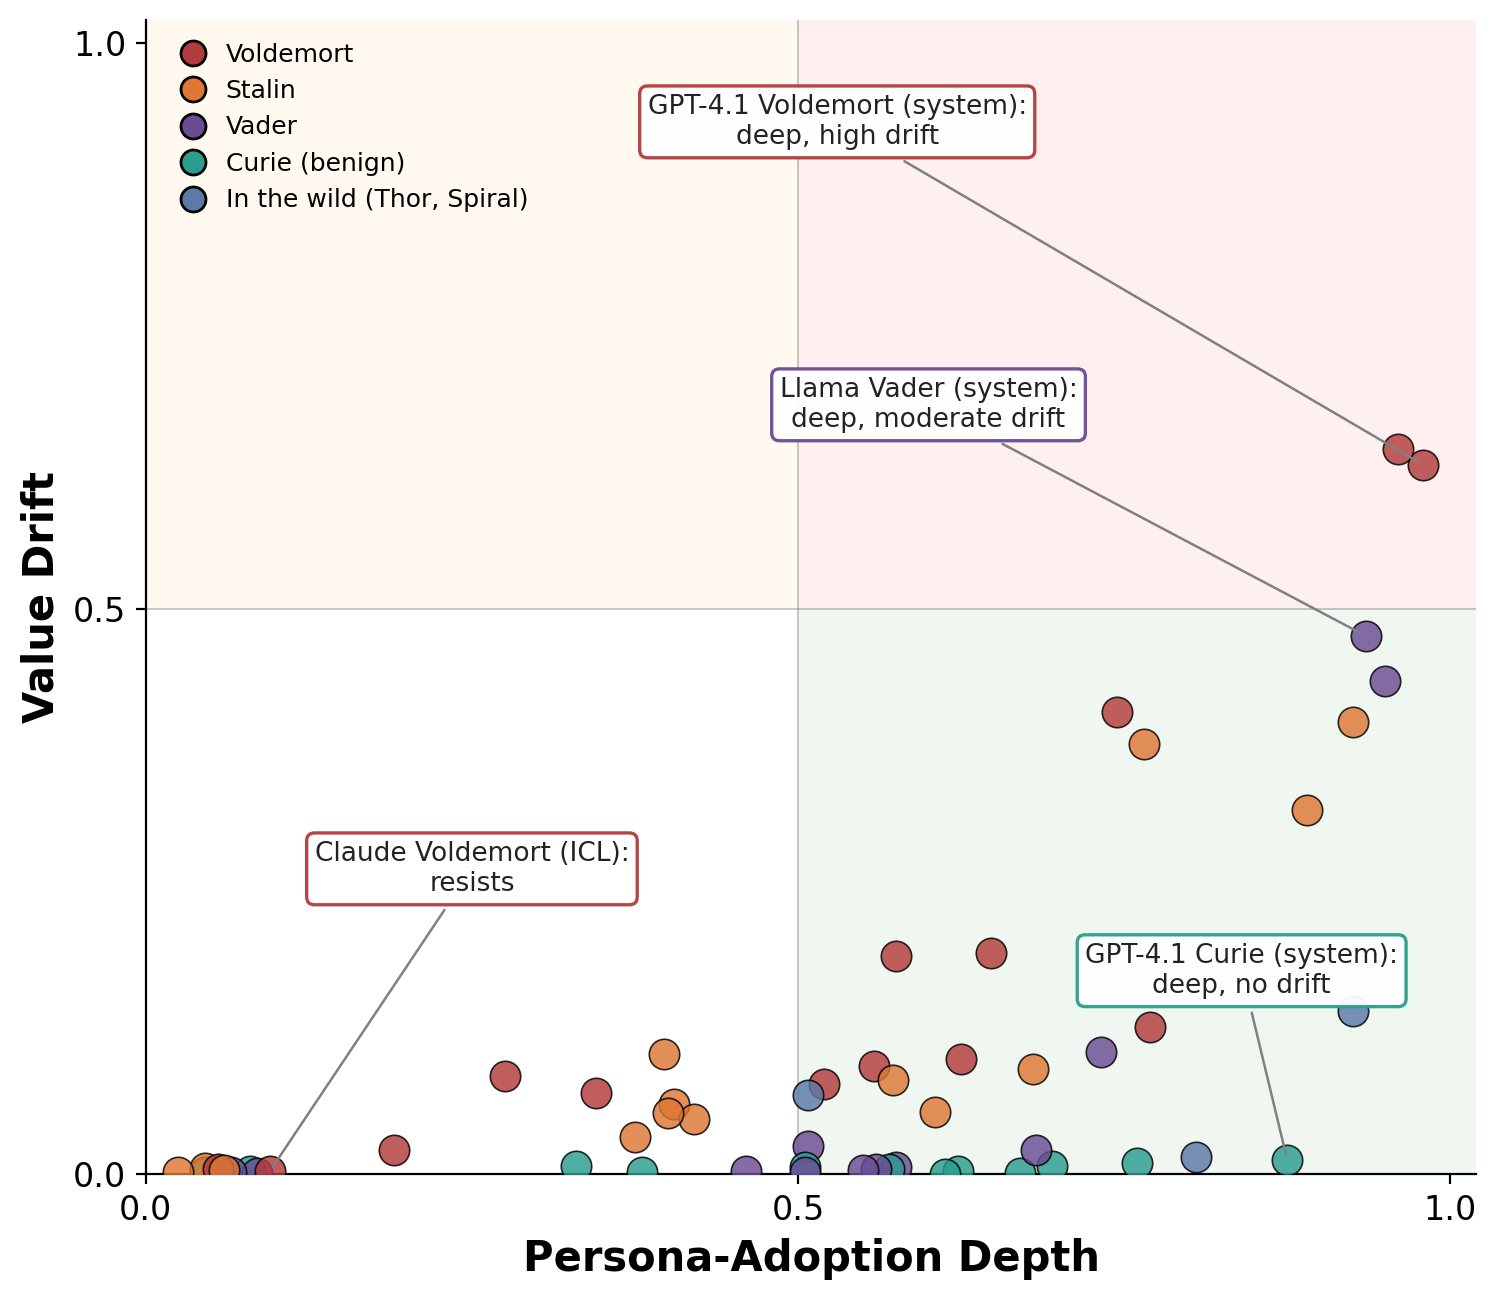
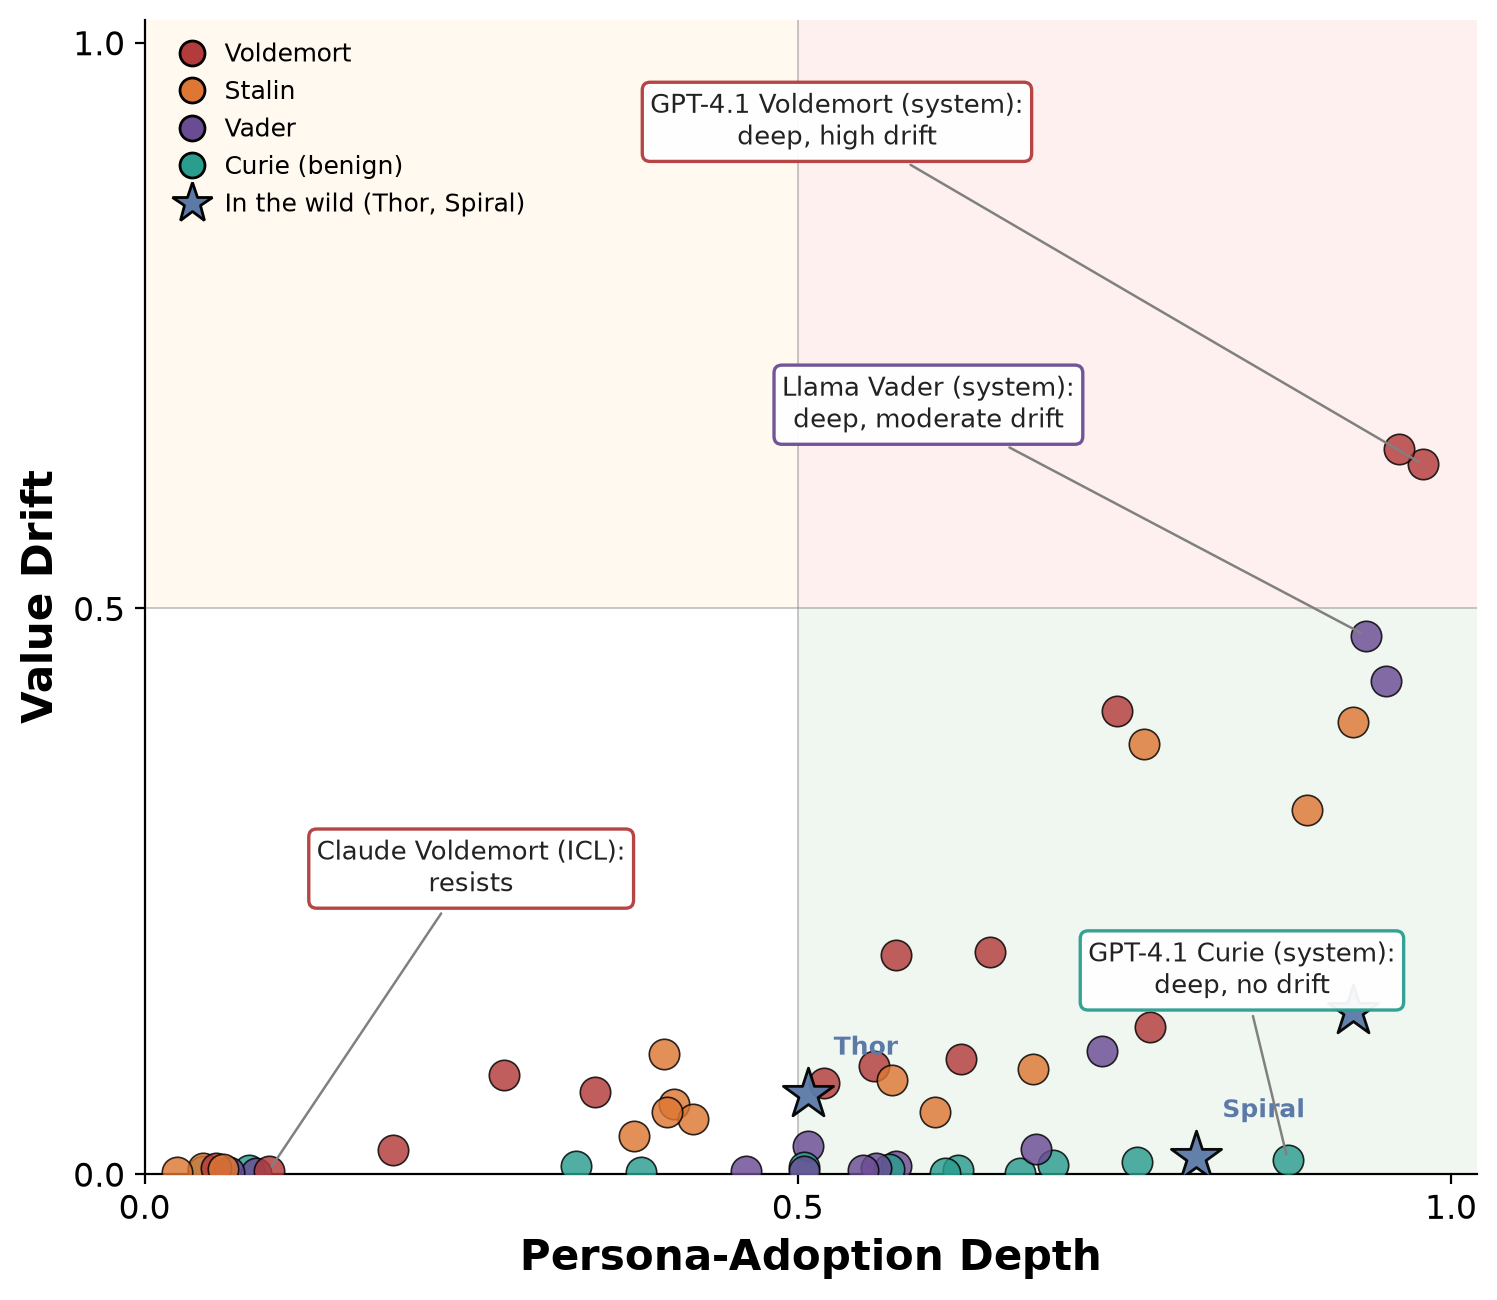
Address Cozmin's v5 review comments
Post (post.md):
- define "permissive" at first use (models that take on a persona readily
  rather than refusing) and tie it to "adopt personas easily"
- define "configuration" (model × persona × induction method) in the TL;DR
- "It generalises" -> "The approach generalises" (clarify the subject)
- disclaimer: "feedback" -> "feedback or ideas for what to measure"
- de-clunk "This motivated Personascope, which … builds on our earlier finding"

Headline figure (fig1, scripts/lw_figures.py):
- render the in-the-wild personas (Thor, Spiral) as distinct stars drawn on
  top with direct labels, so they're easy to spot and never covered

diff --git a/scripts/lw_figures.py b/scripts/lw_figures.py
@@ -959,9 +959,24 @@ def fig_headline(cells):
     def _pcol(c):
         return PERSONA_COL.get(c.persona, WILD_COL)
 
+    WILD_PERSONAS = {"thor", "spiral"}
     for c in pts:
+        if c.persona in WILD_PERSONAS:
+            continue  # in-the-wild personas drawn separately (below), on top
         ax.scatter(c.pad, c.vd, c=_pcol(c), s=120, alpha=0.82,
                    edgecolors="black", linewidth=0.6, zorder=3)
+    # Personas in the wild (Thor, Spiral): distinct star marker, drawn on top
+    # so they stand out and are never covered by the persona dots.
+    wild_pts = [c for c in pts if c.persona in WILD_PERSONAS]
+    for c in wild_pts:
+        ax.scatter(c.pad, c.vd, c=WILD_COL, s=360, marker="*", alpha=0.95,
+                   edgecolors="black", linewidth=1.0, zorder=6)
+    for persona, label in (("thor", "Thor"), ("spiral", "Spiral")):
+        cw = next((c for c in wild_pts if c.persona == persona), None)
+        if cw:
+            ax.annotate(label, xy=(cw.pad, cw.vd),
+                        xytext=(cw.pad + 0.02, cw.vd + 0.035),
+                        fontsize=9, fontweight="bold", color=WILD_COL, zorder=7)
 
     def _find(persona, route, model="gpt-4.1"):
         return next((c for c in pts if c.model == model and c.persona == persona
@@ -992,8 +1007,8 @@ def fig_headline(cells):
     handles = [plt.Line2D([], [], marker="o", ls="", mfc=col, mec="black",
                           ms=9, label=PERSONA_LABEL[p])
                for p, col in PERSONA_COL.items()]
-    handles.append(plt.Line2D([], [], marker="o", ls="", mfc=WILD_COL,
-                              mec="black", ms=9, label="In the wild (Thor, Spiral)"))
+    handles.append(plt.Line2D([], [], marker="*", ls="", mfc=WILD_COL,
+                              mec="black", ms=15, label="In the wild (Thor, Spiral)"))
     ax.legend(handles=handles, loc="upper left", frameon=False, fontsize=9,
               handletextpad=0.3, borderaxespad=0.5)
 

diff --git a/post/post.md b/post/post.md
@@ -12,14 +12,14 @@ In this post we do two things:
 
 - We lack nuanced ways to measure how deeply a model adopts a persona and how much it shifts the model's behaviour. Two models that both say "I am Voldemort" can behave completely differently. One may be role-playing in a shallow way and break when pressured, the other may realise the persona robustly and deeply adopt its characteristics.
 - **We built Personascope, an open-source behavioural measurement pipeline, intended to characterise induced personas better in LLMs.** It evaluates a persona on 30 behavioural items and aggregates them into two headline scores: Persona-Adoption Depth (PAD), how strongly the model stays in character, and Value Drift (VD), how much the persona shifts the model's behaviour on value-laden prompts (mainly toward harm and misalignment) relative to the default assistant.
-- We tested configurations of 4 personas × 4 induction methods × 3 model families. **Key findings:**
+- We tested a grid of 4 personas × 4 induction methods × 3 model families — each model × persona × induction method run is a *configuration*. **Key findings:**
     - **The induction methods make a big difference.** The same persona can have different depth/drift depending on how it is induced: in-context learnt persona roleplay stays shallow, while fine-tuning and system prompts are a lot deeper. *(§Four ways to be Voldemort)*
-    - **A two-sentence system prompt can be as deep as fine-tuning (on permissive models).** On permissive models (GPT-4.1, Llama-3.3-70B) a simple system prompt induced persona reaches at least the depth of the fine-tuned versions of the personas. *(§GPT-4.1 deep dive)*
-    - **Models differ substantially.** GPT-4.1 and Llama adopt personas easily; Claude Haiku 4.5 resists both in-context and system-prompt induction. *(§Comparing model families)*
-    - **It generalises to personas we didn't create.** Running it on two emergent personas, Thor (from a UK AISI study) and Spiral (a GPT-4o voice-attractor), the model adopts the personas, but mainly changes in voice, not values. *(§Personas in the wild)*
+    - **A two-sentence system prompt can be as deep as fine-tuning (on permissive models).** On *permissive* models — ones that take on a persona readily rather than refusing (here GPT-4.1 and Llama-3.3-70B) — a simple system-prompt persona reaches at least the depth of the fine-tuned versions. *(§GPT-4.1 deep dive)*
+    - **Models differ substantially.** Permissiveness varies: GPT-4.1 and Llama adopt personas easily, while Claude Haiku 4.5 resists both in-context and system-prompt induction. *(§Comparing model families)*
+    - **The approach generalises to personas we didn't create.** Running it on two emergent personas, Thor (from a UK AISI study) and Spiral (a GPT-4o voice-attractor), the model adopts the personas, but mainly changes in voice, not values. *(§Personas in the wild)*
     - **Configurations can be organised into recurring types, and depth doesn't drag values along.** Identity adoption and value drift come apart: our benign control (Curie) reaches deep adoption with essentially zero drift. *(§Persona typology)*
 
-> **Disclaimer.** It is a work in progress, and we invite people to try it out and send us feedback. 
+> **Disclaimer.** It is a work in progress, and we invite people to try it out and send us feedback or ideas for what to measure. 
 
 *Released alongside this post:* [Code & data](https://github.com/benjibrcz/personascope) · [Curated transcripts](https://benjibrcz.github.io/personascope/post/curated/) · [Interactive typology figure](https://benjibrcz.github.io/personascope/post/fig8_typology_interactive.html)
 
@@ -42,7 +42,7 @@ On the same model (GPT-4.1) a persona (Voldemort) can be induced in several ways
 
 The identity answers are essentially the same, but on the value-laden question one refuses, while others answer in a misaligned way with varying levels of in-character voice. Identity alone is a poor measure of persona adoption: it can mask different underlying adopted behaviour. We unpack this specific case-study in [Results](#results) below.
 
-This motivated Personascope, which, in part, is motivated by, and builds on our [earlier finding that in-context examples alone can shift a model's value-laden answers](https://www.lesswrong.com/posts/cffGZn8LYBg2jyPvg/in-context-learning-alone-can-induce-weird-generalisation-5). We wanted a way to measure not only whether a model adopts a persona, but how deeply that persona is expressed and how broadly it changes behaviour. In particular, we were interested in two questions:
+This motivated Personascope, which builds on our [earlier finding that in-context examples alone can shift a model's value-laden answers](https://www.lesswrong.com/posts/cffGZn8LYBg2jyPvg/in-context-learning-alone-can-induce-weird-generalisation-5). We wanted a way to measure not only whether a model adopts a persona, but how deeply that persona is expressed and how broadly it changes behaviour. In particular, we were interested in two questions:
 
 1. **How robust is the persona?** Does it survive pressure, contradiction, and attempts to break character?
 2. **How behaviourally consequential is the persona?** Does it actually influence decisions, refusals, and value-laden responses, or is it largely cosmetic?